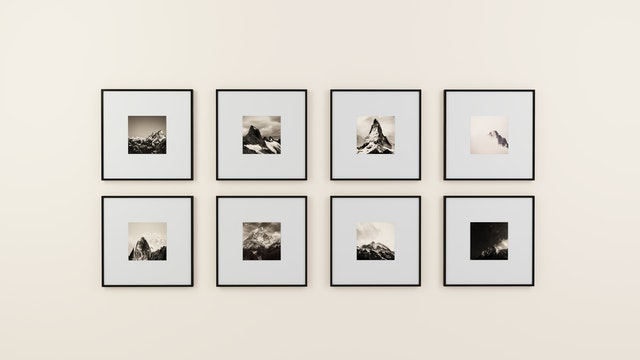
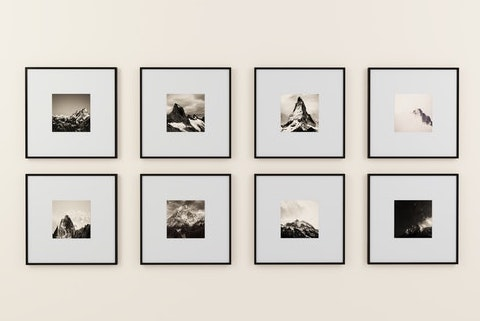
services grid contd

Changed region(s): [[0.0312, 0.1869, 0.9688, 0.8411]]

diff --git a/src/components/Features.js b/src/components/Features.js
@@ -10,9 +10,9 @@ const FeatureGrid = ({ gridItems }) => (
             <div className="card-image">
               <PreviewCompatibleImage imageInfo={item} />
             </div>
-            <div className="card-content">
-              <p className="title is-6">{item.title}</p>
-            <p>{item.text}</p>
+            <div className="card-content" style={{height: 180, display: 'flex', flexDirection: 'column', verticalAlign: 'center' }}>
+              <p className="title is-size-4-mobile is-size-6-tablet is-size-4-desktop" style={{marginBottom:'.5rem'}}>{item.title}</p>
+            <p className="subheading">{item.text}</p>
             </div>
 
         </div>

diff --git a/src/templates/index-page.js b/src/templates/index-page.js
@@ -44,15 +44,15 @@ export const IndexPageTemplate = ({
         </div>
       </div>
     </section>
-    <section className="section section--gradient has-background-grey-darker">
+    <section className="section has-background-grey-darker">
       <div className="container">
-        <div className="section">
+
 
 
               <Features gridItems={intro.blurbs} />
 
 
-          </div>
+
         </div>
 
     </section>

diff --git a/src/components/PreviewCompatibleImage.js b/src/components/PreviewCompatibleImage.js
@@ -3,7 +3,7 @@ import PropTypes from 'prop-types'
 import Img from 'gatsby-image'
 
 const PreviewCompatibleImage = ({ imageInfo }) => {
-  const imageStyle = { borderRadius: '5px' }
+  const imageStyle = { borderRadius: '0px' }
   const { alt = '', childImageSharp, image } = imageInfo
 
   if (!!image && !!image.childImageSharp) {

diff --git a/src/pages/index.md b/src/pages/index.md
@@ -9,27 +9,27 @@ intro:
     - image: /img/photoID.png
       title: PHOTO  D’IDENTITÉ
       text: >
-        Faites le choix d’un photographe agréé pour des photos garanties aux toutes normes, tous pays.
-    - image: /img/coffee-gear.png
+        Faites le choix d’un photographe agréé pour des photos aux toutes normes, tous pays.
+    - image: /img/portrait.jpg
       title: PORTRAIT  D’ART
       text: >
-        Photos individuelles ou de groupe,  retouchés pour CV et réseaux sociaux en adéquation avec votre profil.
-    - image: /img/portrait.jpg
+        Individuels ou de groupe, retouchés pour CV et réseaux en adéquation avec votre profil.
+    - image: /img/pellicule.jpg
       title: LABORATOIRE
       text: >
-        Tirages immediats sur borne photo ou developpement sur du véritable papier photo argentique.
+        Tirages immediats sur borne photo ou developpement sur du papier photo argentique.
     - image: /img/encadrement.jpg
       title: ENCADREMENT
       text: >
-        Photos officielles agréées service en ligne ANTS pour tous vos documents légaux.
+        Plus de 200 baguettes, cadres, caches et passe partout standards et sur-mesures.
     - image: /img/videotransfer.jpg
       title: TRANSFER  VIDEO
       text: >
-        Photos officielles agréées service en ligne ANTS pour tous vos documents légaux.
-    - image: /img/encadrement.jpg
+        Nous réalisons des transferts vidéo et audio vers CD de tout modèle de cassettes.
+    - image: /img/boutique.jpeg
       title: EN BOUTIQUE
       text: >
-        photos officielles agréées service en ligne ANTS pour tous vos documents légaux.
+        Conseils et vente d'appareils photos, films couleurs et N&B et des accessoires.
 testimonials:
   - author: Elisabeth Kaurismäki
     quote: >-
